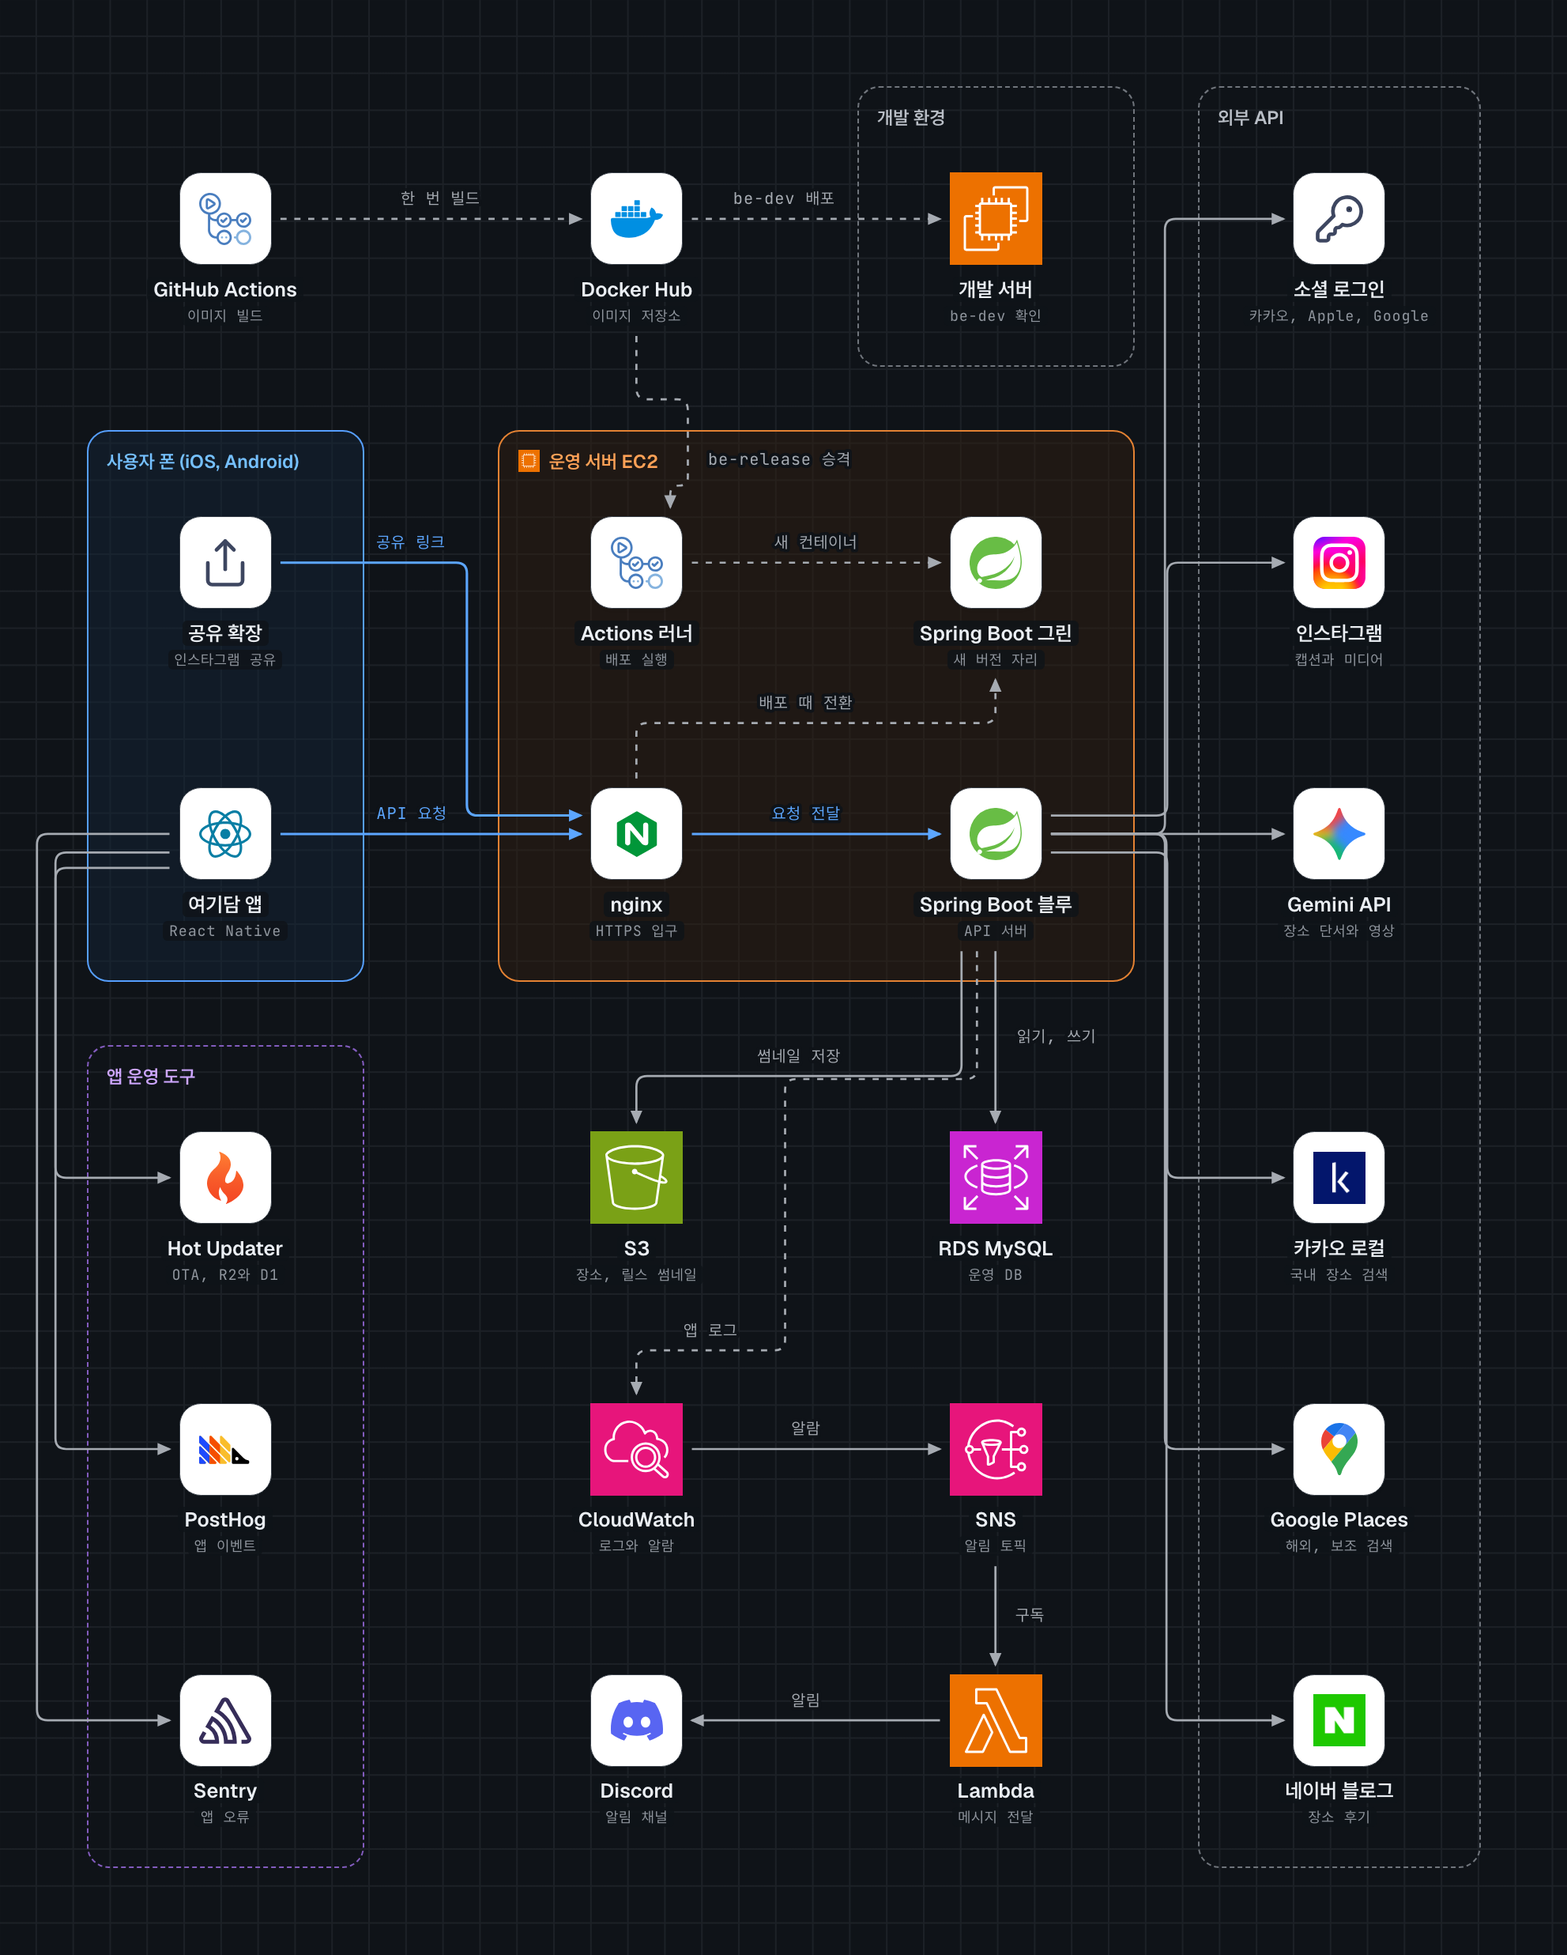
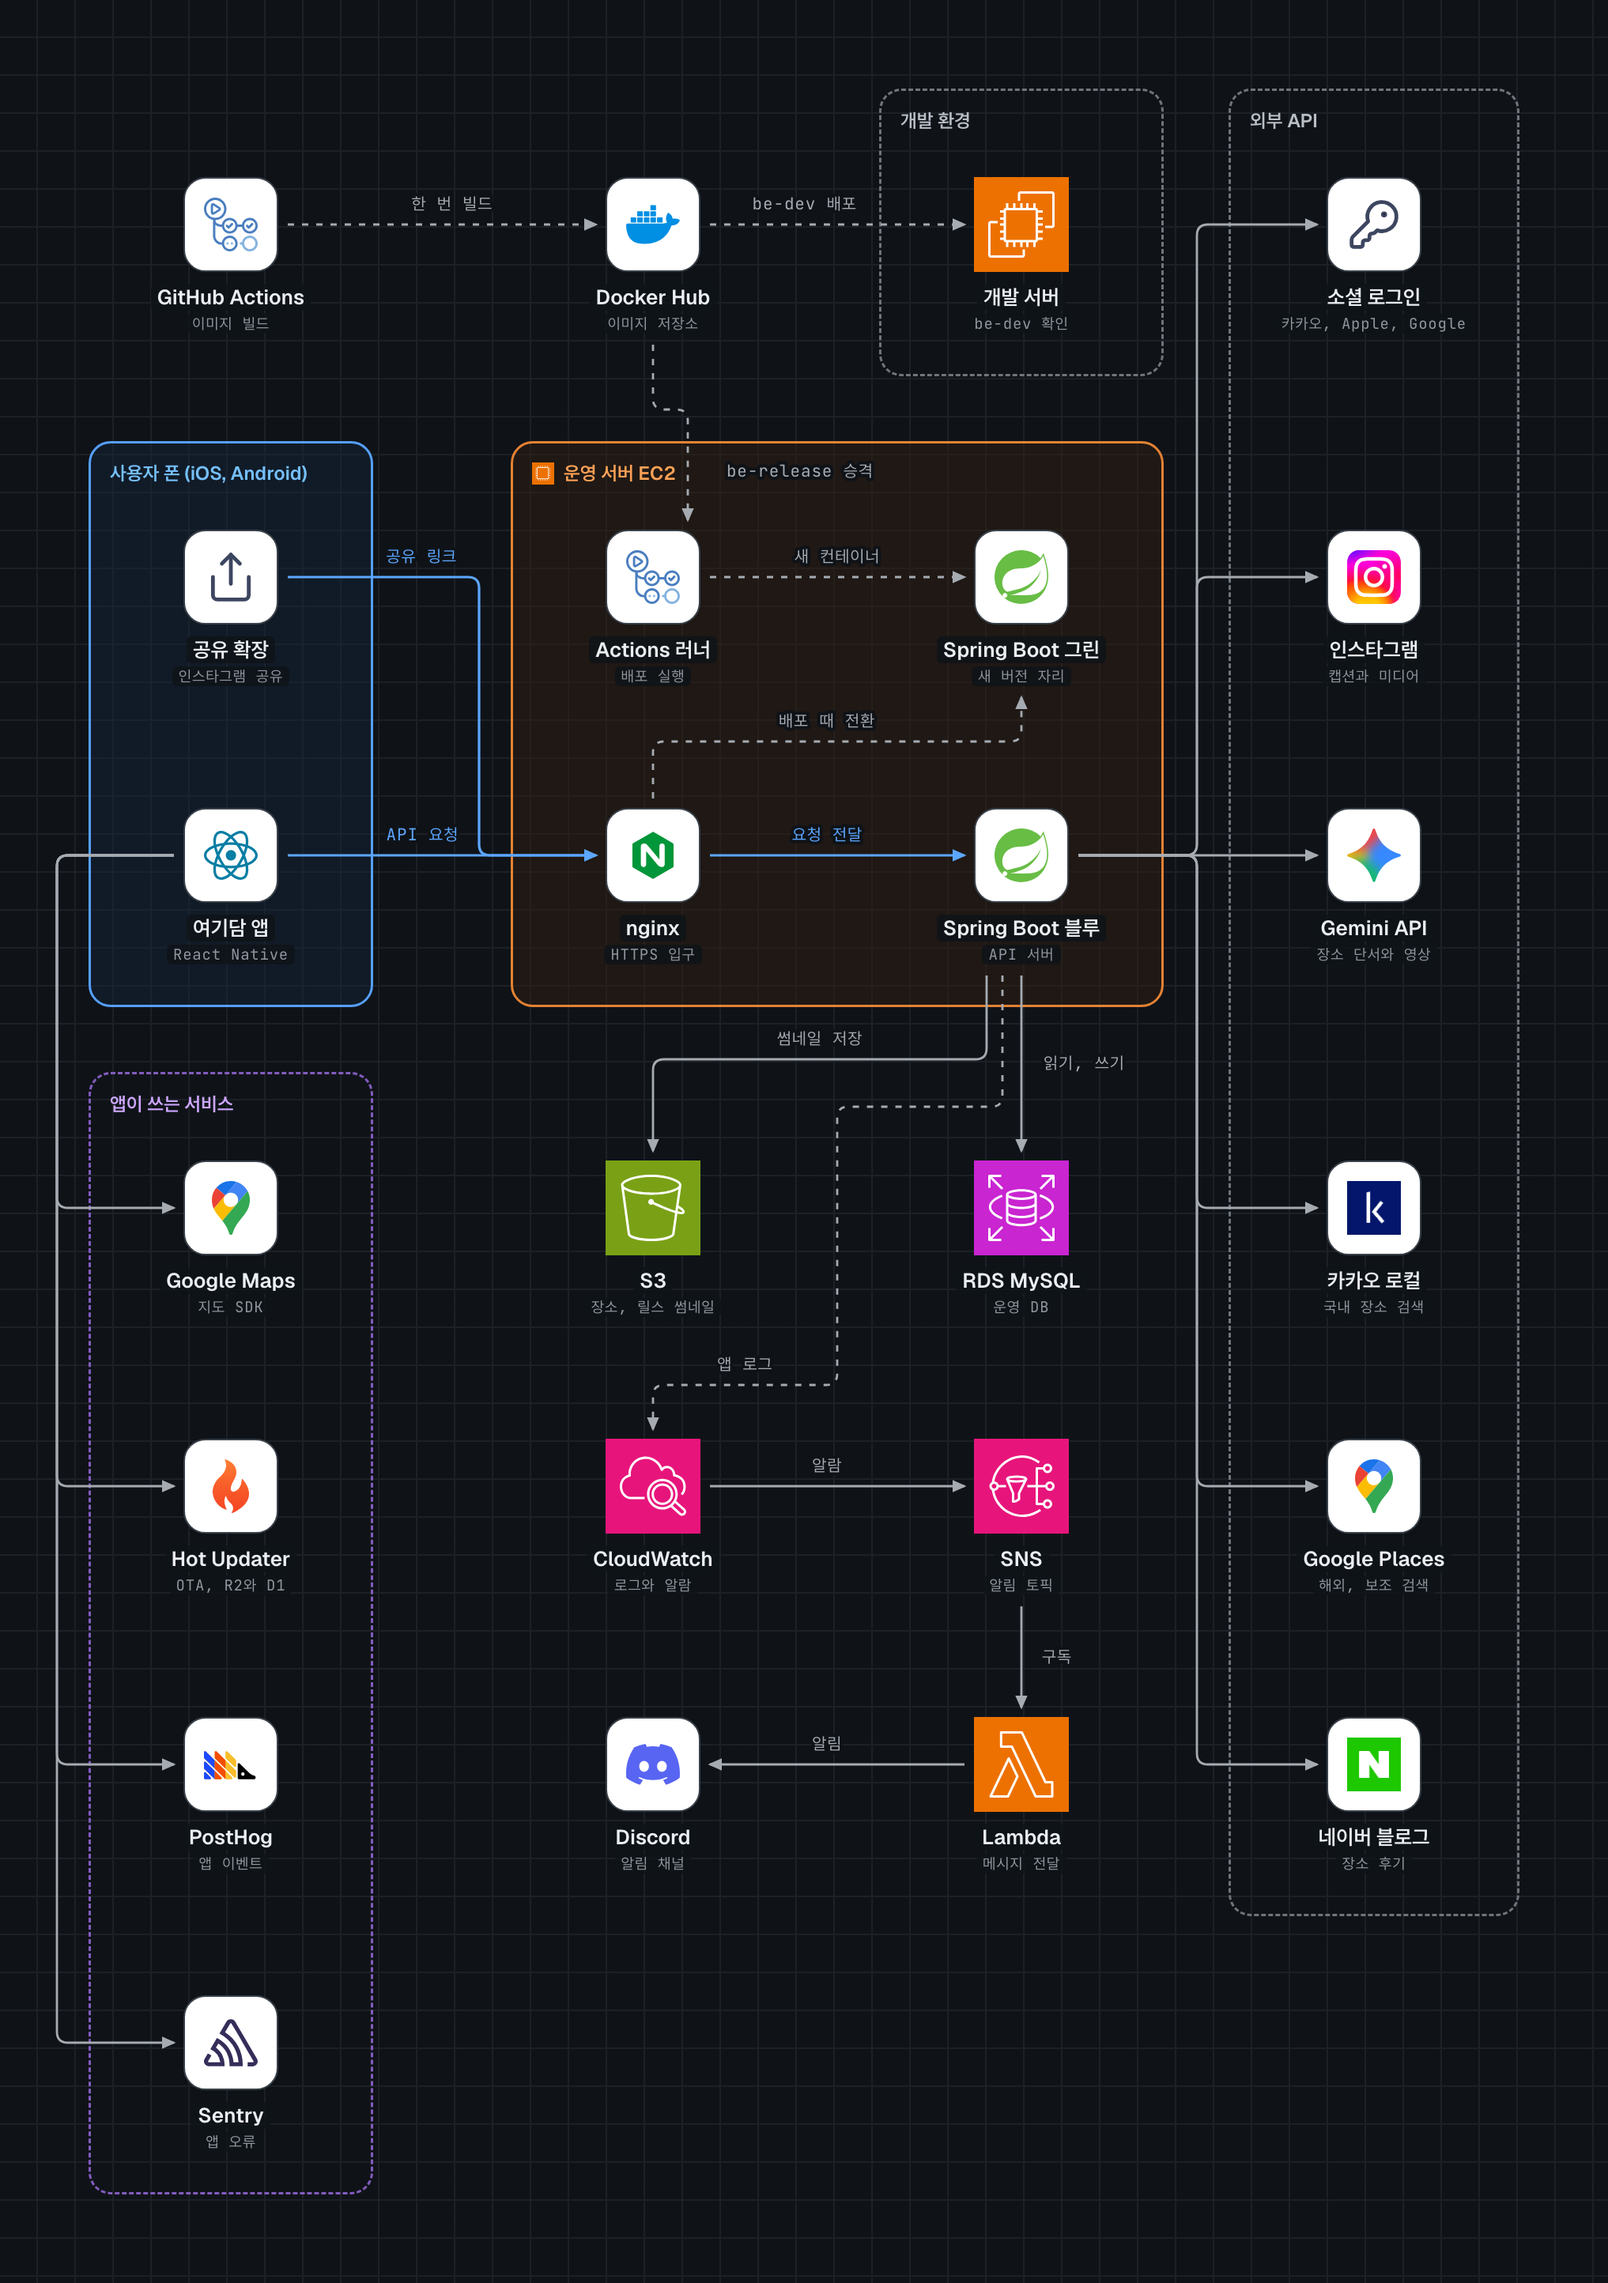
docs: README 구조도에 Google Maps를 더하고 겹치던 선을 한 줄기로 모은다

diff --git a/README.md b/README.md
@@ -229,7 +229,7 @@
   <img src=".github/readme/architecture.png" alt="여기담 운영 구조도">
 </picture>
 
-구조도에는 사용자 요청을 파란 실선으로, 서버가 부르는 곳과 알림을 회색 실선으로, 배포와 로그 전송을 회색 점선으로 그렸습니다.
+구조도에는 사용자 요청을 파란 실선으로, 서버와 앱이 부르는 곳과 알림을 회색 실선으로, 배포와 로그 전송을 회색 점선으로 그렸습니다. 왼쪽 아래 「앱이 쓰는 서비스」 묶음에는 앱이 서버를 거치지 않고 직접 쓰는 지도, OTA(Over-the-Air) 업데이트, 사용 분석, 오류 수집 서비스를 모았습니다.
 
 - **요청 흐름**: 앱과 공유 확장의 요청은 nginx를 거쳐 Spring Boot로 가고, 데이터는 RDS MySQL, 썸네일은 S3에 둡니다. 공유는 바로 202로 받고 추출은 서버 안에서 비동기로 이어 가며, 메타데이터 풀과 분석 풀을 나눠 느린 영상 분석이 캡션과 썸네일 저장을 막지 않게 했습니다.
 - **배포**: GitHub Actions가 이미지를 한 번 만들어 Docker Hub에 올리고, 같은 이미지를 개발 서버에서 운영 서버로 승격합니다. 운영 서버의 배포 전용 러너가 새 컨테이너를 빈 칸에 띄운 뒤 nginx를 넘겨 블루그린으로 교대합니다.
@@ -263,7 +263,7 @@
 | 후기 | 네이버 블로그 검색 API | 2.2 테스트에서 장소를 다시 확인하러 다른 앱으로 나가는 사람이 많아서, 장소 상세에서 블로그 글을 바로 보여 줍니다. | |
 | 지도 | Google Maps SDK | 해외 장소까지 한 지도에 그리고, Google Places 결과는 Google 지도 위에서만 보여 줘야 한다는 약관을 지키려고 2.5에서 카카오 지도를 바꿨습니다. | |
 | 앱 | React Native 0.86, TypeScript | iOS와 Android를 한 코드로 만들고, 인스타그램에서 부르는 공유 확장만 플랫폼별로 둡니다. | [앱 README](Frontend/README.md) |
-| OTA | Hot Updater(Cloudflare R2, D1) | 스토어 심사 없이 JavaScript 변경을 OTA(Over-the-Air) 업데이트로 내보냅니다(2.2.0부터). | |
+| OTA | Hot Updater(Cloudflare R2, D1) | 스토어 심사 없이 JavaScript 변경을 OTA 업데이트로 내보냅니다(2.2.0부터). | |
 | 분석 | PostHog, Sentry | 앱 이벤트로 가설의 지표를 재고, 앱과 공유 확장의 오류를 모읍니다. | |
 
 ## 자주 받는 질문
